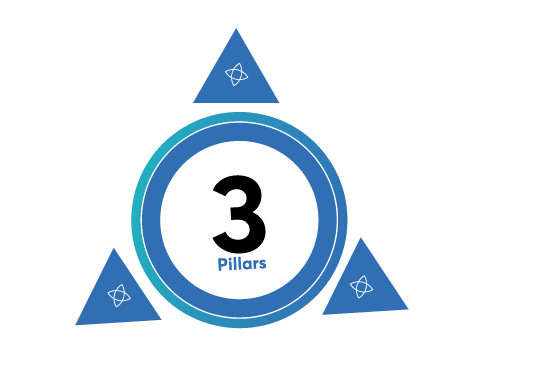
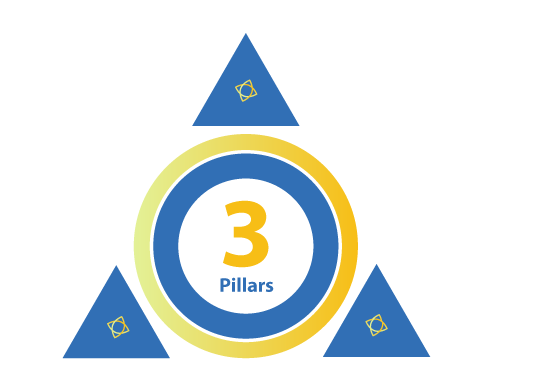
feat(design): color and image updates

Changed region(s): [[0.1181, 0.0615, 0.797, 0.9231]]

diff --git a/assets/css/style.css b/assets/css/style.css
@@ -1128,7 +1128,8 @@ button:focus {
 }
 
 .hit_box i {
-    color: #23afc0;
+    color: #ffc107;
+    /* color: #23afc0; */
 }
 
 .hit_box .hit_icon {
@@ -1145,9 +1146,9 @@ button:focus {
     width: 68px;
     border-radius: 50%;
     z-index: -1;
-    background: #316fb5;
-    background: -webkit-gradient(linear,left top,right bottom,from(#23afc0),to(#316fb5));
-    background: linear-gradient(to bottom right,#23afc0,#316fb5);
+    background: #ffc107;
+    background: -webkit-gradient(linear,left top,right bottom,from(#e3f197),to(#ffc107));
+    background: linear-gradient(to bottom right,#e3f197,#fabc02);
     /* background: #2AAFC0;
     background: -webkit-gradient(linear, left top, right bottom, from(#2154cf), to(#6ec5ff));
     background: linear-gradient(to bottom right, #2154cf, #6ec5ff); */
@@ -1921,9 +1922,9 @@ button:focus {
     font-size: 26px;
     box-shadow: 0 0 0px 8px rgba(70, 138, 230, 0.17);
     line-height: 58px;
-    background: #316fb5;
-    background: -webkit-gradient(linear,left top,right bottom,from(#23afc0),to(#316fb5));
-    background: linear-gradient(to bottom right,#23afc0,#316fb5);
+    background: #ffc107;
+    background: -webkit-gradient(linear,left top,right bottom,from(#e3f197),to(#ffc107));
+    background: linear-gradient(to bottom right,#e3f197,#ffc107);
     /* background: #2AAFC0;
     background: -webkit-gradient(linear, left top, right bottom, from(#2154cf), to(#6ec5ff));
     background: linear-gradient(to bottom right, #2154cf, #6ec5ff); */
@@ -2266,4 +2267,7 @@ i.mdi {
 }
 .card.icon-card img {
     max-height: 80px;
+}
+i.mdi.mdi-lightbulb-outline.h4 {
+    color: #ffc107;
 }

diff --git a/pages/contact-us.vue b/pages/contact-us.vue
@@ -45,7 +45,7 @@
         .row.mt-3.vertical-content
           .col-lg-6
             .mt-3
-              img.img-fluid.mx-auto.d-block(src="~/assets/images/contact.png" alt="")
+              img.img-fluid.mx-auto.d-block(src="~/assets/images/custom/call-center.png" alt="")
           .col-lg-6
             .contact_form.mt-3
               form(@submit.prevent="sendContactEmail")
